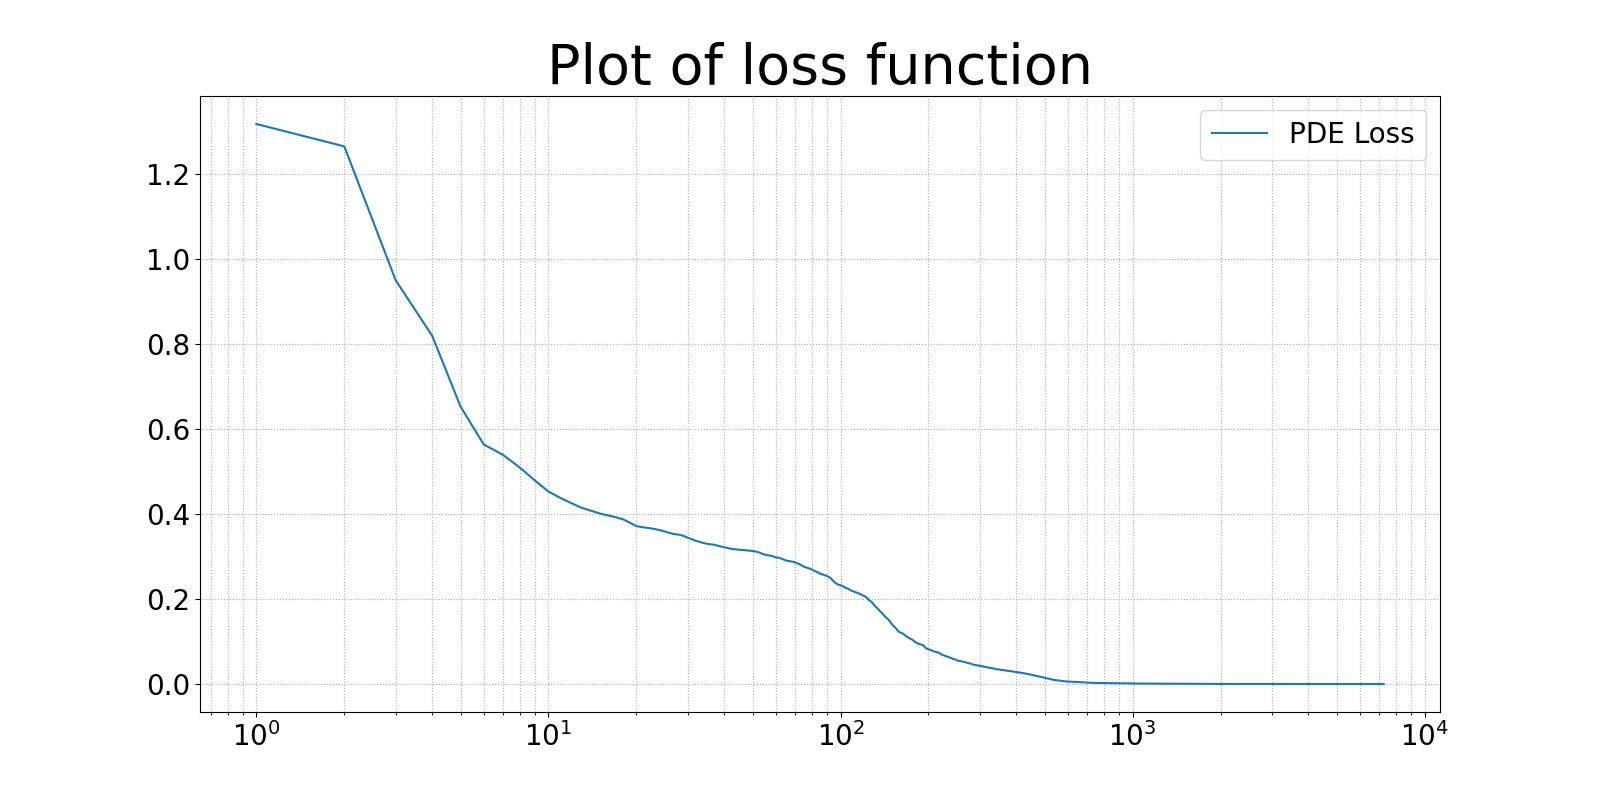
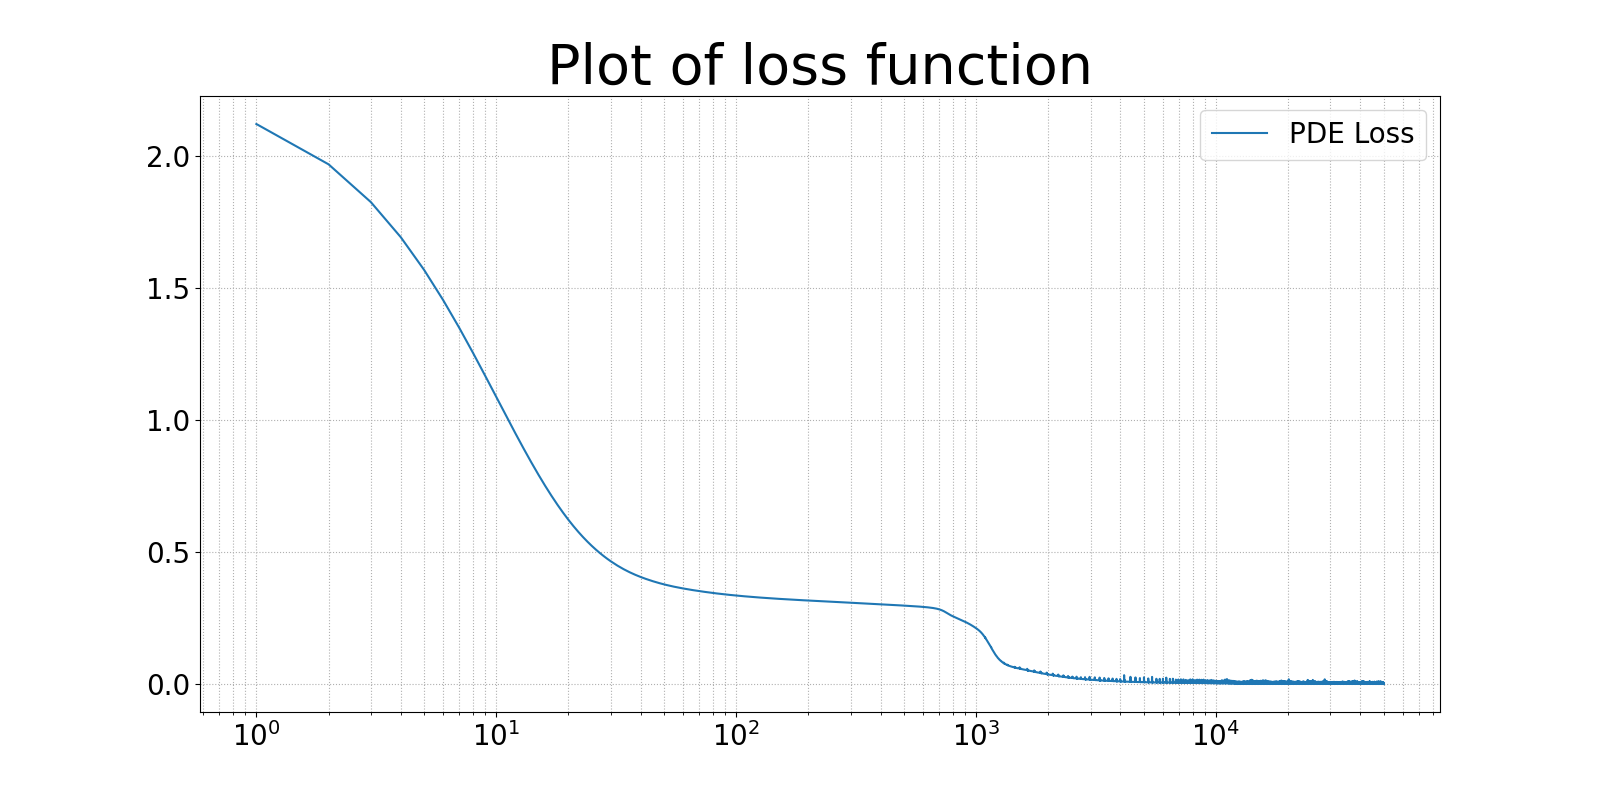
update results

diff --git a/project/FBPINN.py b/project/FBPINN.py
@@ -173,7 +173,7 @@ class FBPINN(object):
         # mean square loss function
         self.loss = nn.MSELoss()
 
-        self.training_set = self.sample_subdomain()
+        self.assemble_datasets()
 
         self.nu = nu # viscocity (model parameter)
 
@@ -190,11 +190,24 @@ class FBPINN(object):
         self.approximate_solution.eval()
         return
 
-    def convert(self, sequence, subdomain):
+    def convert(self, sequence, domain, subdomain_flag=False):
         """rescale the LHS sampled sequence within the domain bounds"""
-        subdomain_bound = torch.cat([subdomain["extended_min"].reshape(-1,1), subdomain["extended_max"].reshape(-1,1)], axis=1)
-        assert (sequence.shape[1] == subdomain_bound.shape[0])
-        return sequence * (subdomain_bound[:, 1] - subdomain_bound[:, 0]) + subdomain_bound[:,0]
+        if subdomain_flag:
+            domain = torch.cat([domain["extended_min"].reshape(-1,1), domain["extended_max"]].reshape(-1,1), axis=1)
+        else:
+            pass
+        assert (sequence.shape[1] ==  domain.shape[0])
+        return sequence *  (domain[:, 1] - domain[:, 0]) + domain[:,0]
+
+    def assemble_datasets(self):
+        """
+        assemble datasets
+        """
+        # input, output =  self.sample_subdomain()
+        input, output =  self.sample_domain(torch.tensor([[0, 1],[-1, 1]]))
+        self.training_set = DataLoader(torch.utils.data.TensorDataset(input, output), batch_size=int(self.n_sample/self.n_batches), shuffle=False)
+
+        return
 
     def sample_subdomain(self):
         """
@@ -211,9 +224,17 @@ class FBPINN(object):
         input = torch.cat(input_list, axis=0)
         output = torch.zeros((input.shape[0], 1))
 
-        training_set = DataLoader(torch.utils.data.TensorDataset(input, output), batch_size=int(self.n_sample/self.n_batches), shuffle=False)
+        return input, output
 
-        return training_set
+    def sample_domain(self, domain):
+        """
+        sample the whole domain globally
+        """
+        sequence = torch.from_numpy(self.LHSeng.random(self.n_sample)).float()
+        input = self.convert(sequence, domain)
+        output = torch.zeros((input.shape[0], 1))
+
+        return input, output
 
 
     def compute_loss(self, training_data, verbose=True):
@@ -257,19 +278,20 @@ class FBPINN(object):
                     optimizer.zero_grad()
                     # compute loss
                     training_data = (inp_train, u_train)
-                    loss = self.compute_loss(training_data, verbose=verbose)
+                    PDE_loss = self.compute_loss(training_data, verbose=verbose)
                     # store loss
-                    history["loss"].append(loss.item())
+                    history["loss"].append(PDE_loss.item())
                     # back propagation
-                    loss.backward()
-                    return loss
+                    PDE_loss.backward()
+                    return PDE_loss
                 # update weights
                 optimizer.step(closure=closure)
 
-        # store loss function data a json
+        # store loss function data to json file
         import pandas as pd
         df = pd.DataFrame(history)
-        df.to_json("FBPINN_loss_function.json")
+        df.sort_index().to_json("FBPINN_loss_function.json", orient='index')
+        # df.to_json("FBPINN_loss_function.json")
 
         return history
 

diff --git a/project/test_FBPINN.py b/project/test_FBPINN.py
@@ -13,16 +13,16 @@ def main():
     # input parameter for PINN
 
     # collocation parameters
-    n_sample = 10000
+    n_sample = 40000
 
     # NN parameters
-    neurons, n_hidden = 20, 3 # 20 neurons per hidden layer and 7 hidden layers (9 layers in total)
+    neurons, n_hidden = 16, 2 # 20 neurons per hidden layer and 7 hidden layers (9 layers in total)
 
     # define physics domain
     domain = [(0., 1.), (-1., 1.)] # time domain x space domain
     # parameters to define subdomains
     num_grid = [2, 3]
-    overlap = 0.1
+    overlap = 0.2
 
     # ── Build 2*3 block overlapping 2-D subdomains on [0, 1]x[-1, 1]
 
@@ -42,15 +42,11 @@ def main():
     # batch parameters
     n_batches = 1
     # number of epochs
-    n_epochs = 10
+    n_epochs = 50000
 
 
     # FBPINN training
     model = FBPINN(subdomains, n_sample, neurons, n_hidden, n_batches, nu)
-
-    # plot collocation points
-    data=  iter(model.training_set)
-    input, output = next(data)
 
     if False:
         # LBFGS optimizer
@@ -65,16 +61,18 @@ def main():
         optimizer_ADAM = optim.Adam(model.approximate_solution.parameters(),
                                     lr=float(0.001))
         loss = model.fit(num_epochs=n_epochs,
-                    optimizer=optimizer_LBFGS,
+                    optimizer=optimizer_ADAM,
                     verbose=True)
         # save the model after training
         model.save_model(path="/Users/pauliebao/AI_for_chemistry/PINN_problem/PINN_project/results/FBPINN_burger.th")
     else:
         model.load_model(path="/Users/pauliebao/AI_for_chemistry/PINN_problem/PINN_project/results/FBPINN_burger.th")
-        loss = pd.read_json("FBPINN_loss_function.json")
+        loss = pd.read_json("FBPINN_loss_function.json").sort_index().T
+        # print(loss)
+        # os._exit(0)
 
     # plot results
-    plotting_FBPINN(model, loss, domain)
+    plotting_FBPINN(model, loss, domain, num_grid=400)
 
 
     return

diff --git a/project/PINN.py b/project/PINN.py
@@ -239,7 +239,7 @@ class PINN(object):
         if verbose:
             print("Total loss: ", round(loss.item(), 4), "| Physics Loss: ", round(loss_p.item(), 4), "| Boundary Loss: ", round(loss_b.item(), 4))
 
-        return loss, loss_b, loss_p
+        return loss, loss_p, loss_b
 
     def fit(self, num_epochs, optimizer, verbose=True):
         """train PINN"""

diff --git a/project/plot_result.py b/project/plot_result.py
@@ -3,7 +3,7 @@ import torch as torch
 import matplotlib.pyplot as plt
 from exact_solution import exact_solution
 
-def plotting_PINN(model, loss, domain, num_grid=1000):
+def plotting_PINN(model, loss, domain, num_grid=400):
     """
     plot the results for PINN
     """
